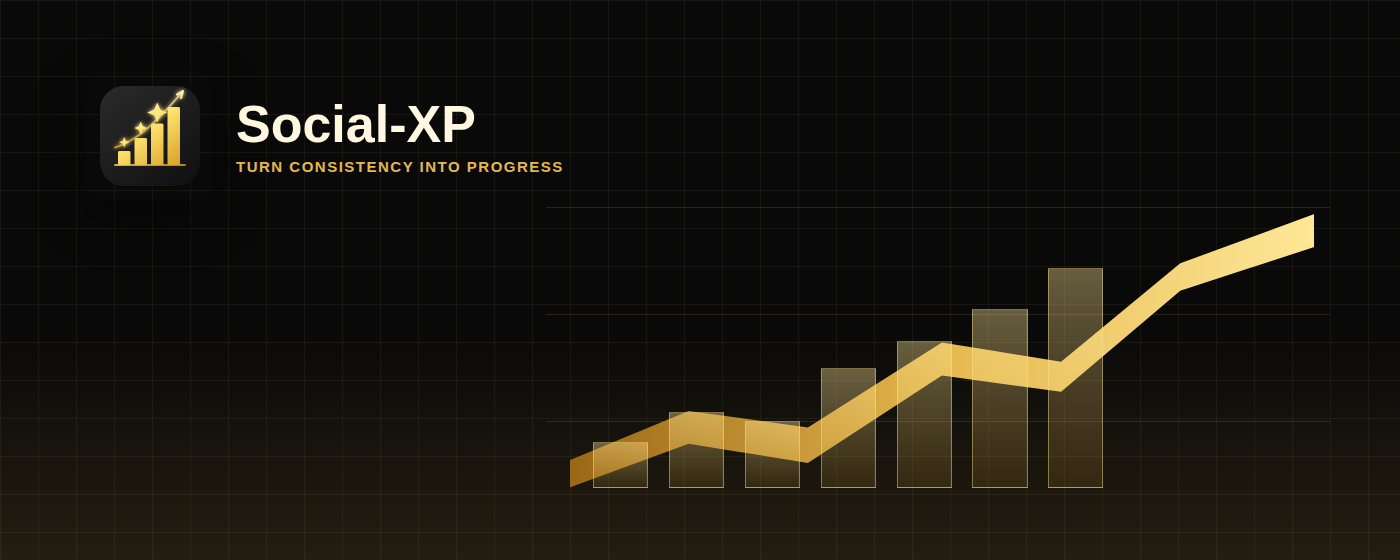
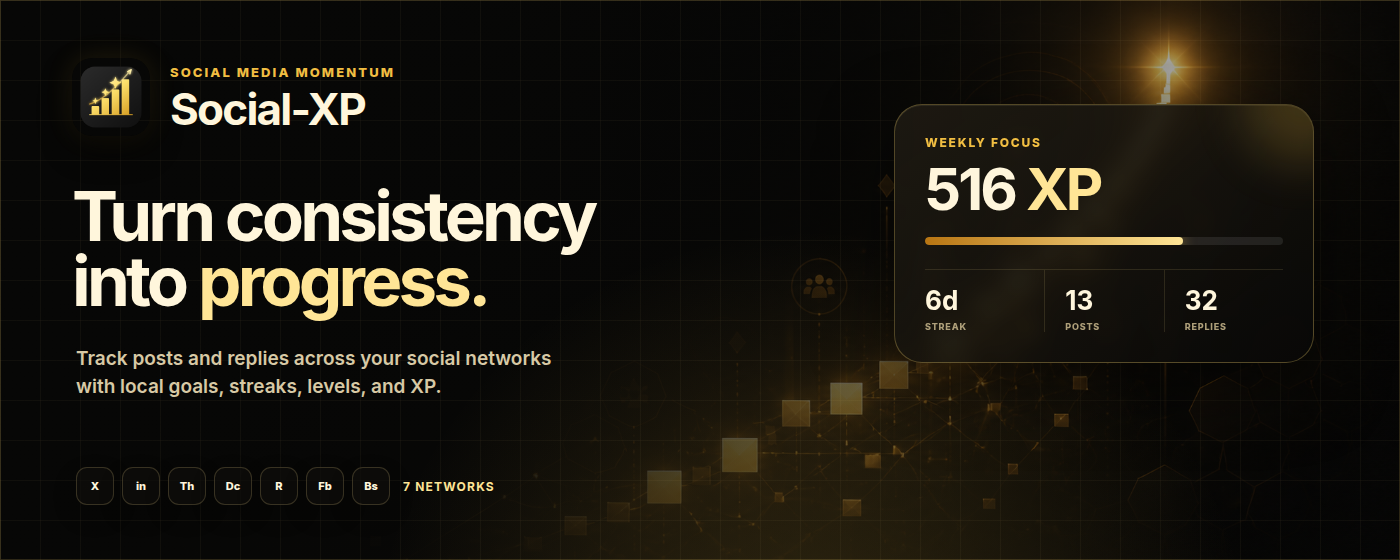
Refresh promotional tiles

diff --git a/store-assets/fixtures/promo.html b/store-assets/fixtures/promo.html
@@ -1,2 +1,309 @@
 <!doctype html>
-<html lang="en"><head><meta charset="UTF-8"><style>*{box-sizing:border-box}body{margin:0;padding:20px;display:grid;gap:20px;background:#ddd;font-family:Arial,sans-serif}.promo{position:relative;overflow:hidden;color:#fff7df;background:#090909}.promo::before{content:"";position:absolute;inset:0;background:linear-gradient(rgba(255,226,145,.055) 1px,transparent 1px),linear-gradient(90deg,rgba(255,226,145,.055) 1px,transparent 1px);background-size:38px 38px}.promo::after{content:"";position:absolute;inset:auto 0 0;height:42%;background:linear-gradient(180deg,transparent,rgba(213,170,68,.13))}.small{width:440px;height:280px}.marquee{width:1400px;height:560px}.lockup{position:absolute;z-index:2;display:flex;align-items:center}.small .lockup{inset:28px}.marquee .lockup{left:86px;top:72px}.lockup img{border-radius:18px;box-shadow:0 18px 50px rgba(0,0,0,.4)}.small .lockup img{width:72px;height:72px}.marquee .lockup img{width:128px;height:128px}.wordmark{margin-left:22px}.wordmark strong{display:block;font-size:52px;line-height:1}.small .wordmark strong{font-size:32px}.wordmark span{display:block;margin-top:8px;color:#e4b84e;font-size:15px;font-weight:700;letter-spacing:.1em;text-transform:uppercase}.small .wordmark span{font-size:10px}.chart{position:absolute;z-index:1;right:5%;bottom:7%;width:56%;height:66%}.small .chart{right:4%;bottom:3%;width:74%;height:52%;opacity:.68}.rail{position:absolute;left:0;right:0;height:1px;background:rgba(255,231,151,.12)}.rail:nth-child(1){top:15%}.rail:nth-child(2){top:44%}.rail:nth-child(3){top:73%}.line{position:absolute;left:3%;right:2%;bottom:9%;height:74%;clip-path:polygon(0 90%,16% 72%,32% 78%,50% 47%,66% 54%,82% 18%,100% 0,100% 12%,82% 28%,66% 65%,50% 59%,32% 91%,16% 84%,0 100%);background:linear-gradient(90deg,#9a6716,#e4b84e,#ffe797)}.bars{position:absolute;z-index:2;left:6%;right:6%;bottom:9%;height:62%;display:flex;align-items:flex-end;gap:3%}.bar{width:8%;border:1px solid rgba(255,231,151,.42);background:linear-gradient(180deg,rgba(255,231,151,.38),rgba(196,138,24,.14))}.bar:nth-child(1){height:20%}.bar:nth-child(2){height:33%}.bar:nth-child(3){height:29%}.bar:nth-child(4){height:52%}.bar:nth-child(5){height:64%}.bar:nth-child(6){height:78%}.bar:nth-child(7){height:96%}</style></head><body><section class="promo small"><div class="lockup"><img src="../../assets/brand-mark.png" alt=""><div class="wordmark"><strong>Social-XP</strong><span>Build the streak</span></div></div><div class="chart"><i class="rail"></i><i class="rail"></i><i class="rail"></i><div class="line"></div><div class="bars"><i class="bar"></i><i class="bar"></i><i class="bar"></i><i class="bar"></i><i class="bar"></i><i class="bar"></i><i class="bar"></i></div></div></section><section class="promo marquee"><div class="lockup"><img src="../../assets/brand-mark.png" alt=""><div class="wordmark"><strong>Social-XP</strong><span>Turn consistency into progress</span></div></div><div class="chart"><i class="rail"></i><i class="rail"></i><i class="rail"></i><div class="line"></div><div class="bars"><i class="bar"></i><i class="bar"></i><i class="bar"></i><i class="bar"></i><i class="bar"></i><i class="bar"></i><i class="bar"></i></div></div></section></body></html>
+<html lang="en">
+  <head>
+    <meta charset="UTF-8">
+    <style>
+      :root {
+        --ink: #070706;
+        --panel: rgba(18, 16, 12, 0.78);
+        --cream: #fff6dc;
+        --muted: #d7c9a5;
+        --gold: #f1be42;
+        --gold-bright: #ffe596;
+        --line: rgba(255, 218, 112, 0.28);
+      }
+
+      * { box-sizing: border-box; }
+
+      body {
+        margin: 0;
+        padding: 20px;
+        display: grid;
+        gap: 20px;
+        background: #ddd;
+        font-family: Inter, ui-sans-serif, system-ui, -apple-system, BlinkMacSystemFont, "Segoe UI", sans-serif;
+      }
+
+      .promo {
+        position: relative;
+        isolation: isolate;
+        overflow: hidden;
+        color: var(--cream);
+        background:
+          linear-gradient(90deg, rgba(7, 7, 6, 0.99) 0%, rgba(7, 7, 6, 0.91) 39%, rgba(7, 7, 6, 0.18) 100%),
+          url("../../assets/promo-momentum-bg.png") center / cover no-repeat,
+          var(--ink);
+      }
+
+      .promo::before {
+        content: "";
+        position: absolute;
+        z-index: -1;
+        inset: 0;
+        background:
+          radial-gradient(circle at 58% 120%, rgba(241, 190, 66, 0.18), transparent 42%),
+          linear-gradient(rgba(255, 229, 150, 0.04) 1px, transparent 1px),
+          linear-gradient(90deg, rgba(255, 229, 150, 0.04) 1px, transparent 1px);
+        background-size: auto, 40px 40px, 40px 40px;
+      }
+
+      .promo::after {
+        content: "";
+        position: absolute;
+        inset: 0;
+        z-index: 5;
+        pointer-events: none;
+        border: 1px solid rgba(255, 218, 112, 0.16);
+      }
+
+      .small { width: 440px; height: 280px; }
+      .marquee { width: 1400px; height: 560px; }
+
+      .brand {
+        position: absolute;
+        z-index: 2;
+        display: flex;
+        align-items: center;
+      }
+
+      .brand img {
+        display: block;
+        border-radius: 14px;
+        box-shadow: 0 14px 32px rgba(0, 0, 0, 0.48), 0 0 28px rgba(241, 190, 66, 0.12);
+      }
+
+      .brand-copy { margin-left: 14px; }
+
+      .kicker {
+        display: block;
+        margin-bottom: 4px;
+        color: var(--gold);
+        font-size: 10px;
+        font-weight: 800;
+        letter-spacing: 0.16em;
+        text-transform: uppercase;
+      }
+
+      .brand strong {
+        display: block;
+        font-size: 27px;
+        line-height: 1;
+        letter-spacing: -0.04em;
+      }
+
+      .headline {
+        position: absolute;
+        z-index: 2;
+        margin: 0;
+        max-width: 58%;
+        font-size: 35px;
+        line-height: 0.96;
+        letter-spacing: -0.055em;
+      }
+
+      .headline em {
+        color: var(--gold-bright);
+        font-style: normal;
+      }
+
+      .promise {
+        position: absolute;
+        z-index: 2;
+        margin: 0;
+        color: var(--muted);
+        font-weight: 650;
+      }
+
+      .xp-card {
+        position: absolute;
+        z-index: 3;
+        overflow: hidden;
+        border: 1px solid var(--line);
+        background: linear-gradient(145deg, rgba(31, 27, 19, 0.9), rgba(8, 8, 7, 0.82));
+        box-shadow: 0 24px 70px rgba(0, 0, 0, 0.5), inset 0 1px rgba(255, 241, 190, 0.08);
+        backdrop-filter: blur(10px);
+      }
+
+      .xp-card::before {
+        content: "";
+        position: absolute;
+        width: 120px;
+        height: 120px;
+        right: -50px;
+        top: -62px;
+        border-radius: 50%;
+        background: rgba(241, 190, 66, 0.2);
+        filter: blur(24px);
+      }
+
+      .card-label {
+        display: block;
+        color: var(--gold);
+        font-size: 9px;
+        font-weight: 800;
+        letter-spacing: 0.15em;
+        text-transform: uppercase;
+      }
+
+      .xp-total {
+        display: block;
+        margin-top: 5px;
+        color: var(--cream);
+        font-size: 31px;
+        line-height: 1;
+        letter-spacing: -0.05em;
+      }
+
+      .xp-total span {
+        color: var(--gold-bright);
+      }
+
+      .progress {
+        height: 5px;
+        margin-top: 10px;
+        overflow: hidden;
+        border-radius: 999px;
+        background: rgba(255, 255, 255, 0.09);
+      }
+
+      .progress i {
+        display: block;
+        width: 72%;
+        height: 100%;
+        border-radius: inherit;
+        background: linear-gradient(90deg, #b87512, var(--gold-bright));
+        box-shadow: 0 0 14px rgba(241, 190, 66, 0.65);
+      }
+
+      .stats {
+        display: grid;
+        grid-template-columns: repeat(3, 1fr);
+        margin-top: 13px;
+        border-top: 1px solid rgba(255, 229, 150, 0.12);
+      }
+
+      .stat { padding-top: 10px; }
+
+      .stat + .stat {
+        padding-left: 11px;
+        border-left: 1px solid rgba(255, 229, 150, 0.12);
+      }
+
+      .stat b {
+        display: block;
+        color: var(--cream);
+        font-size: 17px;
+        line-height: 1;
+      }
+
+      .stat small {
+        display: block;
+        margin-top: 4px;
+        color: #ae9f7a;
+        font-size: 7px;
+        font-weight: 800;
+        letter-spacing: 0.09em;
+        text-transform: uppercase;
+      }
+
+      .network-row {
+        position: absolute;
+        z-index: 2;
+        display: flex;
+        align-items: center;
+        gap: 8px;
+      }
+
+      .network-row span {
+        display: grid;
+        width: 28px;
+        height: 28px;
+        place-items: center;
+        border: 1px solid rgba(255, 229, 150, 0.18);
+        border-radius: 9px;
+        color: var(--cream);
+        background: rgba(15, 14, 11, 0.72);
+        font-size: 9px;
+        font-weight: 850;
+        box-shadow: 0 10px 24px rgba(0, 0, 0, 0.2);
+      }
+
+      .network-row b {
+        margin-left: 5px;
+        color: var(--gold-bright);
+        font-size: 10px;
+        letter-spacing: 0.1em;
+        text-transform: uppercase;
+      }
+
+      .small .brand { left: 24px; top: 22px; }
+      .small .brand img { width: 48px; height: 48px; }
+      .small .headline { left: 24px; top: 94px; }
+      .small .promise { left: 25px; bottom: 26px; font-size: 11px; }
+      .small .xp-card { right: 20px; top: 76px; width: 166px; padding: 15px; border-radius: 18px; }
+      .small .network-row { display: none; }
+
+      .marquee .brand { left: 72px; top: 58px; }
+      .marquee .brand img { width: 78px; height: 78px; border-radius: 20px; }
+      .marquee .brand-copy { margin-left: 20px; }
+      .marquee .kicker { font-size: 13px; margin-bottom: 7px; }
+      .marquee .brand strong { font-size: 44px; }
+      .marquee .headline { left: 72px; top: 184px; max-width: 590px; font-size: 69px; line-height: 0.94; }
+      .marquee .promise { left: 76px; top: 345px; max-width: 510px; font-size: 19px; line-height: 1.45; }
+      .marquee .xp-card { right: 86px; top: 104px; width: 420px; padding: 30px; border-radius: 28px; }
+      .marquee .card-label { font-size: 12px; }
+      .marquee .xp-total { margin-top: 10px; font-size: 58px; }
+      .marquee .progress { height: 8px; margin-top: 19px; }
+      .marquee .stats { margin-top: 24px; }
+      .marquee .stat { padding-top: 18px; }
+      .marquee .stat + .stat { padding-left: 20px; }
+      .marquee .stat b { font-size: 26px; }
+      .marquee .stat small { margin-top: 7px; font-size: 9px; }
+      .marquee .network-row { left: 76px; bottom: 55px; }
+      .marquee .network-row span { width: 38px; height: 38px; border-radius: 11px; font-size: 11px; }
+      .marquee .network-row b { font-size: 12px; }
+    </style>
+  </head>
+  <body>
+    <section class="promo small">
+      <div class="brand">
+        <img src="../../assets/brand-mark.png" alt="">
+        <div class="brand-copy"><span class="kicker">Social momentum</span><strong>Social-XP</strong></div>
+      </div>
+      <h1 class="headline">Post. Reply.<br><em>Level up.</em></h1>
+      <p class="promise">Goals, streaks &amp; XP · private by design</p>
+      <div class="xp-card">
+        <span class="card-label">Weekly focus</span>
+        <strong class="xp-total">516 <span>XP</span></strong>
+        <div class="progress"><i></i></div>
+        <div class="stats">
+          <div class="stat"><b>6d</b><small>Streak</small></div>
+          <div class="stat"><b>13</b><small>Posts</small></div>
+          <div class="stat"><b>32</b><small>Replies</small></div>
+        </div>
+      </div>
+    </section>
+
+    <section class="promo marquee">
+      <div class="brand">
+        <img src="../../assets/brand-mark.png" alt="">
+        <div class="brand-copy"><span class="kicker">Social media momentum</span><strong>Social-XP</strong></div>
+      </div>
+      <h1 class="headline">Turn consistency<br>into <em>progress.</em></h1>
+      <p class="promise">Track posts and replies across your social networks with local goals, streaks, levels, and XP.</p>
+      <div class="network-row">
+        <span>X</span><span>in</span><span>Th</span><span>Dc</span><span>R</span><span>Fb</span><span>Bs</span><b>7 networks</b>
+      </div>
+      <div class="xp-card">
+        <span class="card-label">Weekly focus</span>
+        <strong class="xp-total">516 <span>XP</span></strong>
+        <div class="progress"><i></i></div>
+        <div class="stats">
+          <div class="stat"><b>6d</b><small>Streak</small></div>
+          <div class="stat"><b>13</b><small>Posts</small></div>
+          <div class="stat"><b>32</b><small>Replies</small></div>
+        </div>
+      </div>
+    </section>
+  </body>
+</html>
